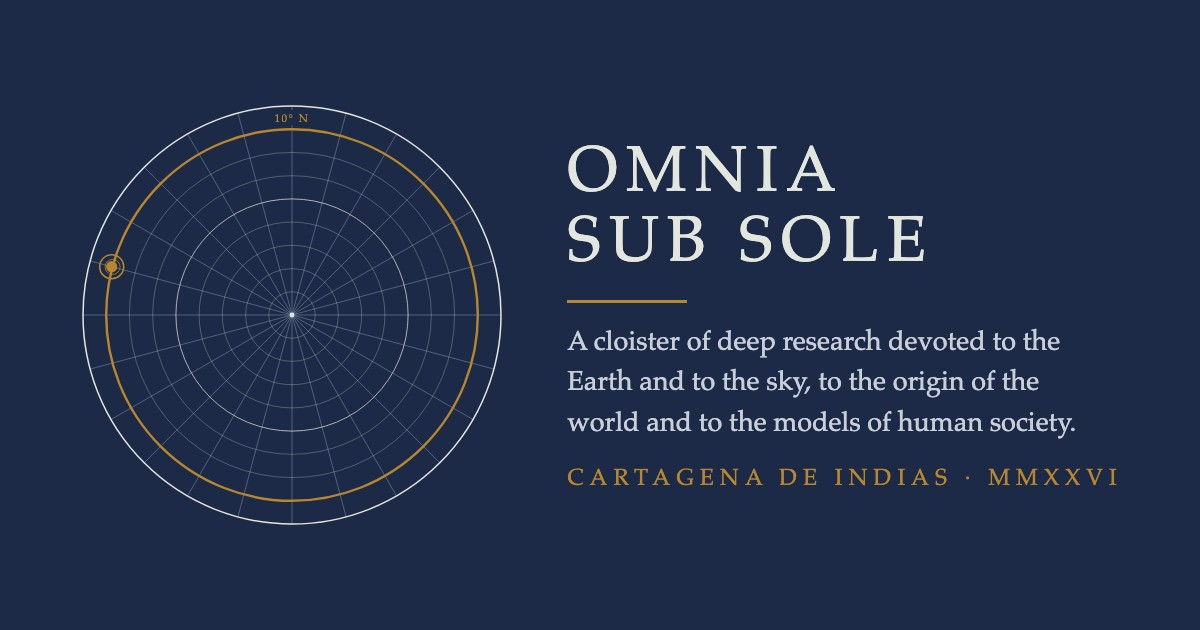
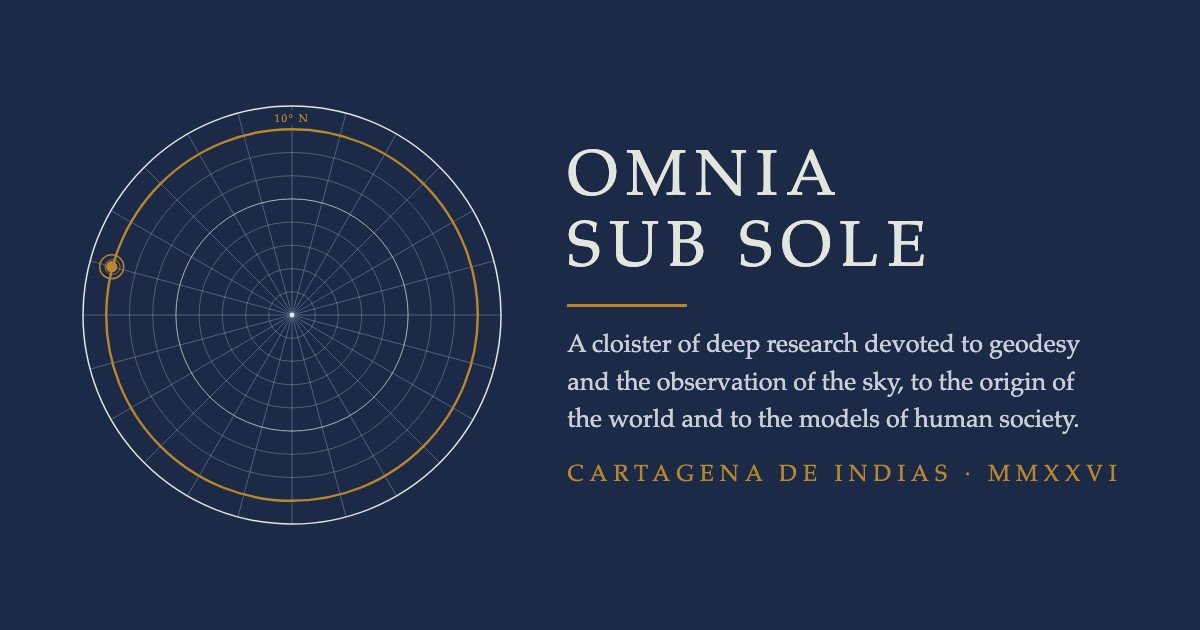
The front page names the line by its name: geodesy
It said "the Earth and the sky", which describes the subject but does not
name the discipline the cloister actually studies. It now reads "geodesy and
the observation of the sky", matching the line of research further down.

Changed in the opening line, the description search engines read, the one
shown when the link is shared, the structured data and both sharing banners,
in Spanish and English.

diff --git a/404.html b/404.html
@@ -4,14 +4,14 @@
 <meta charset="utf-8">
 <meta name="viewport" content="width=device-width, initial-scale=1, viewport-fit=cover">
 <title>Omnia Sub Sole · Claustro de investigación profunda</title>
-<meta name="description" content="Omnia Sub Sole es una fundación sin ánimo de lucro en proceso de constitución que erigirá en Cartagena de Indias un claustro de investigación profunda dedicado a la Tierra y al cielo, al origen del mundo y a los modelos de convivencia humana.">
+<meta name="description" content="Omnia Sub Sole es una fundación sin ánimo de lucro en proceso de constitución que erigirá en Cartagena de Indias un claustro de investigación profunda dedicado a la geodesia y a la observación del cielo, al origen del mundo y a los modelos de convivencia humana.">
 <meta property="og:type" content="website">
 <meta property="og:locale" content="es_CO">
 <meta property="og:site_name" content="Fundación Omnia Sub Sole">
 <meta property="og:title" content="Omnia Sub Sole · Claustro de investigación profunda">
-<meta property="og:description" content="Fundación sin ánimo de lucro en proceso de constitución que erigirá en Cartagena de Indias un claustro de investigación profunda dedicado a la Tierra y al cielo, al origen del mundo y a los modelos de convivencia humana.">
+<meta property="og:description" content="Fundación sin ánimo de lucro en proceso de constitución que erigirá en Cartagena de Indias un claustro de investigación profunda dedicado a la geodesia y a la observación del cielo, al origen del mundo y a los modelos de convivencia humana.">
 <meta name="robots" content="index, follow">
-<script type="application/ld+json">{"@context": "https://schema.org", "@type": "NGO", "name": "Fundación Omnia Sub Sole", "alternateName": "Omnia Sub Sole", "url": "https://omniasubsole.org/", "logo": "https://omniasubsole.org/favicon.svg", "description": "Fundación sin ánimo de lucro en proceso de constitución que erigirá en Cartagena de Indias un claustro de investigación profunda dedicado a la Tierra y al cielo, al origen del mundo y a los modelos de convivencia humana.", "slogan": "Todo bajo el sol", "foundingDate": "2026", "address": {"@type": "PostalAddress", "streetAddress": "Torre Empresarial Prodegi, piso 18, Bocagrande", "addressLocality": "Cartagena de Indias", "addressRegion": "Bolívar", "addressCountry": "CO"}, "email": "contacto@omniasubsole.org", "telephone": "+34621024973", "knowsLanguage": ["es", "en"], "areaServed": "Colombia"}</script>
+<script type="application/ld+json">{"@context": "https://schema.org", "@type": "NGO", "name": "Fundación Omnia Sub Sole", "alternateName": "Omnia Sub Sole", "url": "https://omniasubsole.org/", "logo": "https://omniasubsole.org/favicon.svg", "description": "Fundación sin ánimo de lucro en proceso de constitución que erigirá en Cartagena de Indias un claustro de investigación profunda dedicado a la geodesia y a la observación del cielo, al origen del mundo y a los modelos de convivencia humana.", "slogan": "Todo bajo el sol", "foundingDate": "2026", "address": {"@type": "PostalAddress", "streetAddress": "Torre Empresarial Prodegi, piso 18, Bocagrande", "addressLocality": "Cartagena de Indias", "addressRegion": "Bolívar", "addressCountry": "CO"}, "email": "contacto@omniasubsole.org", "telephone": "+34621024973", "knowsLanguage": ["es", "en"], "areaServed": "Colombia"}</script>
 <link rel="canonical" href="https://omniasubsole.org/">
 <link rel="alternate" hreflang="es" href="https://omniasubsole.org/">
 <link rel="alternate" hreflang="en" href="https://omniasubsole.org/en.html">
@@ -195,7 +195,7 @@ footer .name{font-family:var(--inscr); color:var(--ink); letter-spacing:.05em}
     <div>
       <h1>Omnia <br>Sub Sole</h1>
       <p class="motto">Todo bajo el sol</p>
-        <p class="lede">Claustro de investigación profunda dedicado a la Tierra y al cielo, al origen del mundo y a los modelos de convivencia humana.</p>
+        <p class="lede">Claustro de investigación profunda dedicado a la geodesia y a la observación del cielo, al origen del mundo y a los modelos de convivencia humana.</p>
       <p class="where">Fundación sin ánimo de lucro en proceso de constitución. Cartagena de Indias, República de Colombia.</p>
       <a class="btn" href="#inscripcion">Presentar solicitud</a>
       <p class="seal">Individui pro veritate</p>

diff --git a/index.html b/index.html
@@ -4,14 +4,14 @@
 <meta charset="utf-8">
 <meta name="viewport" content="width=device-width, initial-scale=1, viewport-fit=cover">
 <title>Omnia Sub Sole · Claustro de investigación profunda</title>
-<meta name="description" content="Omnia Sub Sole es una fundación sin ánimo de lucro en proceso de constitución que erigirá en Cartagena de Indias un claustro de investigación profunda dedicado a la Tierra y al cielo, al origen del mundo y a los modelos de convivencia humana.">
+<meta name="description" content="Omnia Sub Sole es una fundación sin ánimo de lucro en proceso de constitución que erigirá en Cartagena de Indias un claustro de investigación profunda dedicado a la geodesia y a la observación del cielo, al origen del mundo y a los modelos de convivencia humana.">
 <meta property="og:type" content="website">
 <meta property="og:locale" content="es_CO">
 <meta property="og:site_name" content="Fundación Omnia Sub Sole">
 <meta property="og:title" content="Omnia Sub Sole · Claustro de investigación profunda">
-<meta property="og:description" content="Fundación sin ánimo de lucro en proceso de constitución que erigirá en Cartagena de Indias un claustro de investigación profunda dedicado a la Tierra y al cielo, al origen del mundo y a los modelos de convivencia humana.">
+<meta property="og:description" content="Fundación sin ánimo de lucro en proceso de constitución que erigirá en Cartagena de Indias un claustro de investigación profunda dedicado a la geodesia y a la observación del cielo, al origen del mundo y a los modelos de convivencia humana.">
 <meta name="robots" content="index, follow">
-<script type="application/ld+json">{"@context": "https://schema.org", "@type": "NGO", "name": "Fundación Omnia Sub Sole", "alternateName": "Omnia Sub Sole", "url": "https://omniasubsole.org/", "logo": "https://omniasubsole.org/favicon.svg", "description": "Fundación sin ánimo de lucro en proceso de constitución que erigirá en Cartagena de Indias un claustro de investigación profunda dedicado a la Tierra y al cielo, al origen del mundo y a los modelos de convivencia humana.", "slogan": "Todo bajo el sol", "foundingDate": "2026", "address": {"@type": "PostalAddress", "streetAddress": "Torre Empresarial Prodegi, piso 18, Bocagrande", "addressLocality": "Cartagena de Indias", "addressRegion": "Bolívar", "addressCountry": "CO"}, "email": "contacto@omniasubsole.org", "telephone": "+34621024973", "knowsLanguage": ["es", "en"], "areaServed": "Colombia"}</script>
+<script type="application/ld+json">{"@context": "https://schema.org", "@type": "NGO", "name": "Fundación Omnia Sub Sole", "alternateName": "Omnia Sub Sole", "url": "https://omniasubsole.org/", "logo": "https://omniasubsole.org/favicon.svg", "description": "Fundación sin ánimo de lucro en proceso de constitución que erigirá en Cartagena de Indias un claustro de investigación profunda dedicado a la geodesia y a la observación del cielo, al origen del mundo y a los modelos de convivencia humana.", "slogan": "Todo bajo el sol", "foundingDate": "2026", "address": {"@type": "PostalAddress", "streetAddress": "Torre Empresarial Prodegi, piso 18, Bocagrande", "addressLocality": "Cartagena de Indias", "addressRegion": "Bolívar", "addressCountry": "CO"}, "email": "contacto@omniasubsole.org", "telephone": "+34621024973", "knowsLanguage": ["es", "en"], "areaServed": "Colombia"}</script>
 <link rel="canonical" href="https://omniasubsole.org/">
 <link rel="alternate" hreflang="es" href="https://omniasubsole.org/">
 <link rel="alternate" hreflang="en" href="https://omniasubsole.org/en.html">
@@ -195,7 +195,7 @@ footer .name{font-family:var(--inscr); color:var(--ink); letter-spacing:.05em}
     <div>
       <h1>Omnia <br>Sub Sole</h1>
       <p class="motto">Todo bajo el sol</p>
-        <p class="lede">Claustro de investigación profunda dedicado a la Tierra y al cielo, al origen del mundo y a los modelos de convivencia humana.</p>
+        <p class="lede">Claustro de investigación profunda dedicado a la geodesia y a la observación del cielo, al origen del mundo y a los modelos de convivencia humana.</p>
       <p class="where">Fundación sin ánimo de lucro en proceso de constitución. Cartagena de Indias, República de Colombia.</p>
       <a class="btn" href="#inscripcion">Presentar solicitud</a>
       <p class="seal">Individui pro veritate</p>

diff --git a/en.html b/en.html
@@ -4,14 +4,14 @@
 <meta charset="utf-8">
 <meta name="viewport" content="width=device-width, initial-scale=1, viewport-fit=cover">
 <title>Omnia Sub Sole · A cloister of deep research</title>
-<meta name="description" content="Omnia Sub Sole is a non-profit foundation in the course of incorporation that will raise, in Cartagena de Indias, a cloister of deep research devoted to the Earth and to the sky, to the origin of the world and to the models of human society.">
+<meta name="description" content="Omnia Sub Sole is a non-profit foundation in the course of incorporation that will raise, in Cartagena de Indias, a cloister of deep research devoted to geodesy and the observation of the sky, to the origin of the world and to the models of human society.">
 <meta property="og:type" content="website">
 <meta property="og:locale" content="en_GB">
 <meta property="og:site_name" content="Omnia Sub Sole Foundation">
 <meta property="og:title" content="Omnia Sub Sole · A cloister of deep research">
-<meta property="og:description" content="Non-profit foundation in the course of incorporation that will raise, in Cartagena de Indias, a cloister of deep research devoted to the Earth and to the sky, to the origin of the world and to the models of human society.">
+<meta property="og:description" content="Non-profit foundation in the course of incorporation that will raise, in Cartagena de Indias, a cloister of deep research devoted to geodesy and the observation of the sky, to the origin of the world and to the models of human society.">
 <meta name="robots" content="index, follow">
-<script type="application/ld+json">{"@context": "https://schema.org", "@type": "NGO", "name": "Omnia Sub Sole Foundation", "alternateName": "Omnia Sub Sole", "url": "https://omniasubsole.org/en.html", "logo": "https://omniasubsole.org/favicon.svg", "description": "Non-profit foundation in the course of incorporation that will raise, in Cartagena de Indias, a cloister of deep research devoted to the Earth and to the sky, to the origin of the world and to the models of human society.", "slogan": "All under the sun", "foundingDate": "2026", "address": {"@type": "PostalAddress", "streetAddress": "Torre Empresarial Prodegi, floor 18, Bocagrande", "addressLocality": "Cartagena de Indias", "addressRegion": "Bolívar", "addressCountry": "CO"}, "email": "contacto@omniasubsole.org", "telephone": "+34621024973", "knowsLanguage": ["es", "en"], "areaServed": "Colombia"}</script>
+<script type="application/ld+json">{"@context": "https://schema.org", "@type": "NGO", "name": "Omnia Sub Sole Foundation", "alternateName": "Omnia Sub Sole", "url": "https://omniasubsole.org/en.html", "logo": "https://omniasubsole.org/favicon.svg", "description": "Non-profit foundation in the course of incorporation that will raise, in Cartagena de Indias, a cloister of deep research devoted to geodesy and the observation of the sky, to the origin of the world and to the models of human society.", "slogan": "All under the sun", "foundingDate": "2026", "address": {"@type": "PostalAddress", "streetAddress": "Torre Empresarial Prodegi, floor 18, Bocagrande", "addressLocality": "Cartagena de Indias", "addressRegion": "Bolívar", "addressCountry": "CO"}, "email": "contacto@omniasubsole.org", "telephone": "+34621024973", "knowsLanguage": ["es", "en"], "areaServed": "Colombia"}</script>
 <link rel="canonical" href="https://omniasubsole.org/en.html">
 <link rel="alternate" hreflang="es" href="https://omniasubsole.org/">
 <link rel="alternate" hreflang="en" href="https://omniasubsole.org/en.html">
@@ -195,7 +195,7 @@ footer .name{font-family:var(--inscr); color:var(--ink); letter-spacing:.05em}
     <div>
       <h1>Omnia <br>Sub Sole</h1>
       <p class="motto">All under the sun</p>
-        <p class="lede">A cloister of deep research devoted to the Earth and to the sky, to the origin of the world and to the models of human society.</p>
+        <p class="lede">A cloister of deep research devoted to geodesy and the observation of the sky, to the origin of the world and to the models of human society.</p>
       <p class="where">Non-profit foundation in the course of incorporation. Cartagena de Indias, Republic of Colombia.</p>
       <a class="btn" href="#inscripcion">Submit an application</a>
       <p class="seal">Individui pro veritate</p>
